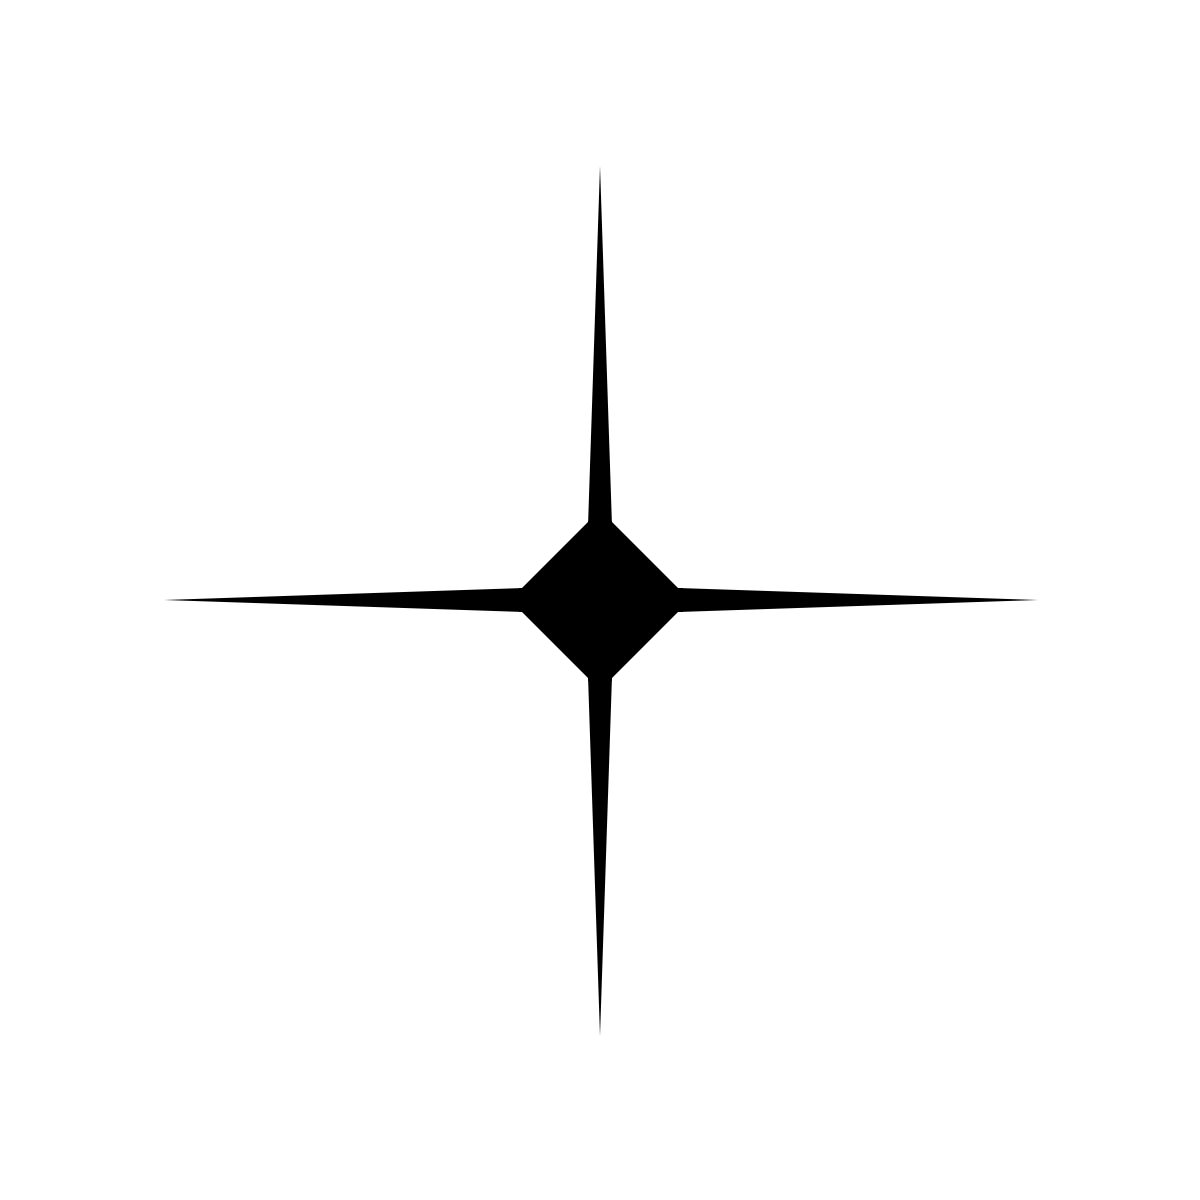
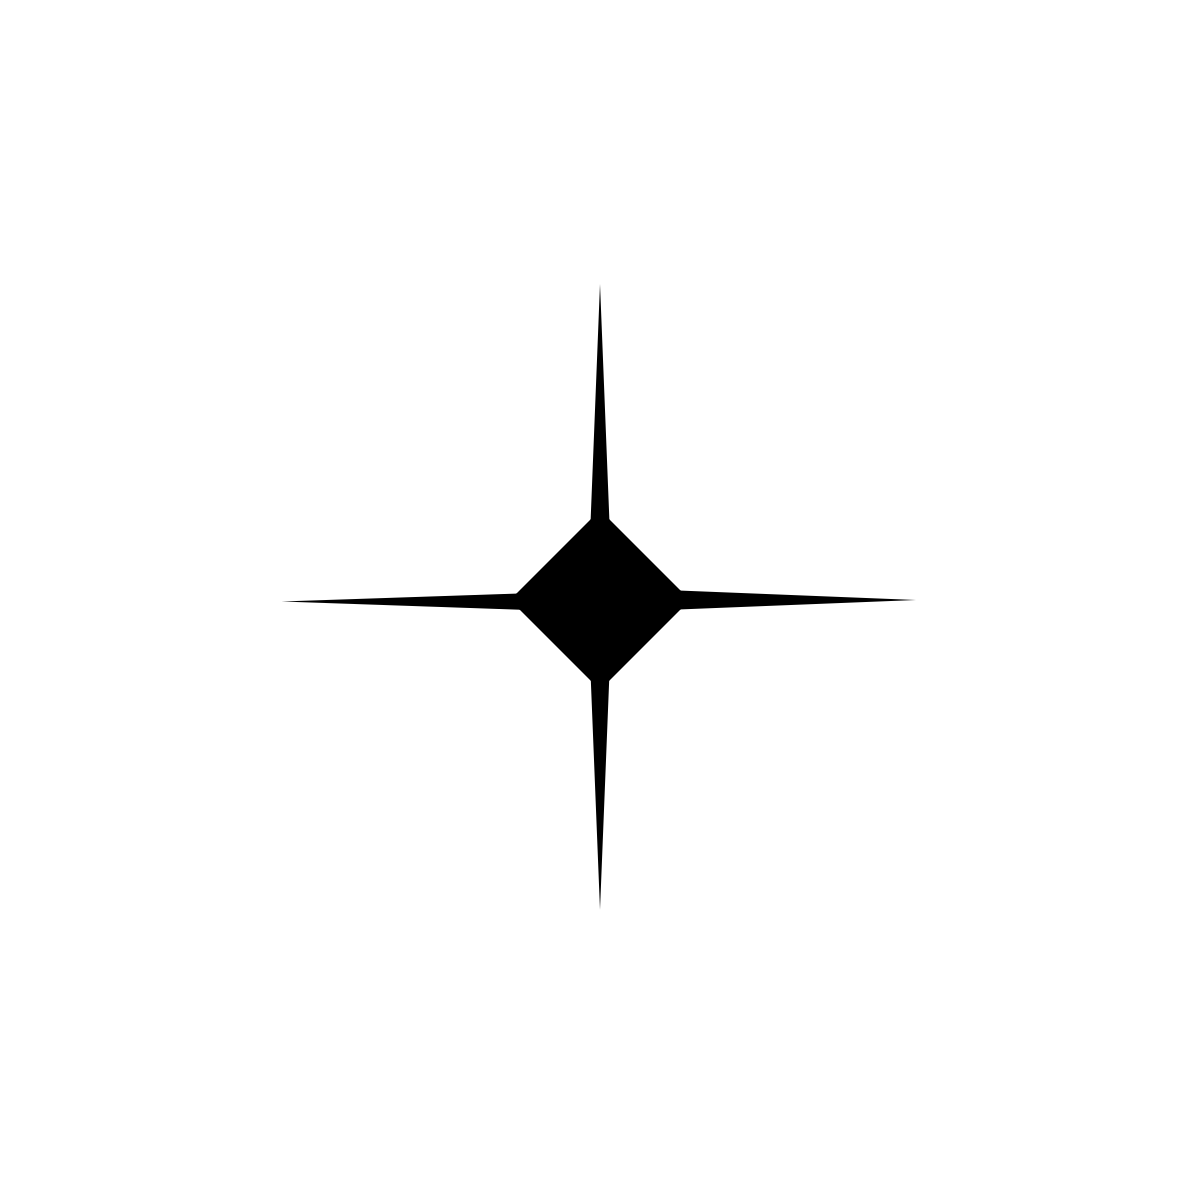
pointer fix

diff --git a/experiment/simulation/css/styles.css b/experiment/simulation/css/styles.css
@@ -626,11 +626,12 @@ height: 70%;
 }
 .crack .img img{
   
-  height: 75%;
+  height: auto;
   display: block;
     object-fit: contain;
-  width: 85%;
-  height: auto;
+  width: 90%;
+  transform: scale(1.9);   /* 2 = double size */
+  
   image-rendering: auto;
   will-change: contents;
 }
